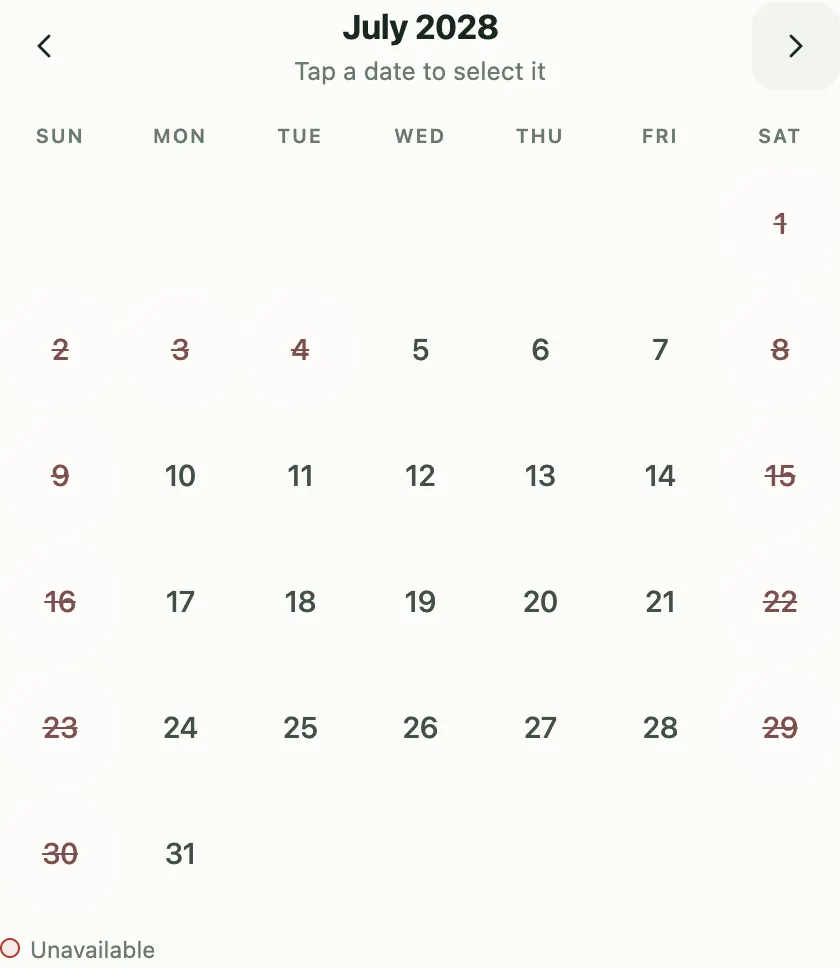
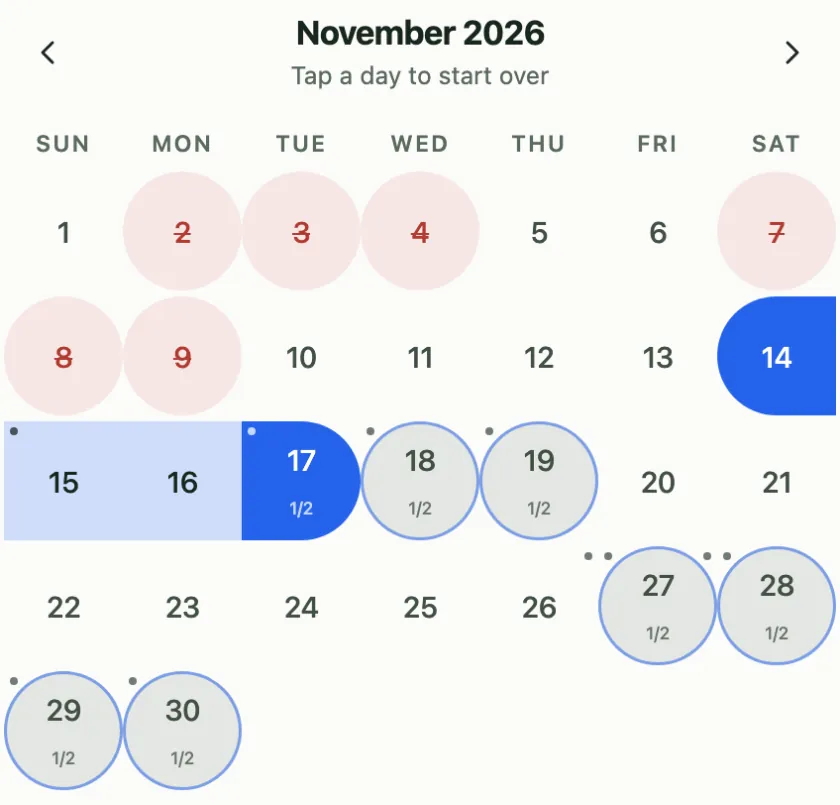
feat(landing): retake the widget screenshots inside the booking window
The four shots now show the live widget (service cards, description,
the "Who's coming?" menu): Boarding for Bella, Sat 14 to Tue 17 November
2026, 3 nights, $150. The old ones used June and July 2028, past the
demo sitter's 12-month window. The hero alt, request card, phone
example, step alts and dashboard mock name the same stay. Step 01 now
says the picture is the client's view of her services, and the step
headings lose their trailing periods. docs/landing-screenshots.md is
the tracked recipe: a worker with no live email, the seed, the stay,
the Playwright capture, and the cwebp settings that keep each file
inside IMG_BUDGETS_KB.

Claude-Session: https://claude.ai/code/session_01RFJRYUaeZq9ZFZrmeU2LGr

diff --git a/server/index.ts b/server/index.ts
@@ -271,8 +271,9 @@ app.get('/setup.html', page('setup.html'));
  * <details>, which opens without script. Its "Sign up" links are rewritten per request (the route
  * below) to carry the visitor's already-cleaned attribution to /signup.
  * The embed snippet in the FAQ is shown as escaped text (&lt;script&gt;…) so the served body
- * genuinely contains no <script tag. Screenshot regeneration recipe (fixed 2028 seed months):
- * docs/superpowers/specs/2026-07-19-landing-marketing-redesign.md.
+ * genuinely contains no <script tag. The screenshots show Boarding for Bella, Sat 14 to Tue 17
+ * November 2026 (3 nights, $150), and the hero alt, request card, phone example, step alts and
+ * dashboard mock all name that stay; docs/landing-screenshots.md is the recipe for retaking them.
  */
 /*
  * Notes on the landing markup below, moved out of the template so none of them is served.
@@ -294,9 +295,9 @@ app.get('/setup.html', page('setup.html'));
  * [div class="cta-row"] The one button on the page that names the trial (owner, 2026-10-08). Every
  *     other button, the nav's included, reads "Sign up": the nav is one row on measured
  *     breakpoints, and the rest sit beside the price that explains them.
- * [div class="visual-panel"] Screenshots are captured from the seeded demo (fixed 2028 months,
- *     never "today"). Regenerate via the recipe in docs/superpowers/specs/2026-07-19-landing-
- *     marketing-redesign.md whenever the widget's look changes. The card's three nights at $150 is
+ * [div class="visual-panel"] Screenshots are captured from the seeded demo, in a month inside the
+ *     demo sitter's booking window. Retake them with docs/landing-screenshots.md whenever the
+ *     widget's look changes or the month leaves the window. The card's three nights at $150 is
  *     the screenshot's own quote, and the WhatsApp example in #pro tells the same stay.
  * [section class="section band"] Who it is for, in her clients' own words: each card is a question
  *     she answers by text today and what answers it instead, with no figure the product cannot
@@ -390,7 +391,7 @@ const LANDING_HTML = `<!doctype html>
               <div class="screen">
                 <img
                   src="/img/landing/widget-hero.webp"
-                  alt="The Pawservation booking widget: a June calendar with a three-night boarding stay selected and a $150 quote"
+                  alt="The Pawservation booking widget: a November calendar with a three-night boarding stay selected, Saturday the 14th to Tuesday the 17th"
                 />
               </div>
               <div class="screen-fade" aria-hidden="true"></div>
@@ -467,25 +468,25 @@ const LANDING_HTML = `<!doctype html>
               <div class="frame">
                 <img
                   src="/img/landing/step-services.webp"
-                  alt="The booking page's service picker: Boarding selected from a row of a sitter's services, including House sitting, Daycare, Walk, Check-in and Morning walk"
+                  alt="A sitter's services as her clients see them on her booking page: Boarding selected, beside House sitting, Daycare, Walk, Check-in and Morning walk"
                 />
               </div>
               <div class="step-body">
                 <span class="step-no">01</span>
-                <h3>You set your services.</h3>
-                <p>Pick from walks, drop-in visits, boarding, house sitting and daycare, and type your prices.</p>
+                <h3>Your services, your prices</h3>
+                <p>Pick from walks, drop-in visits, boarding, house sitting and daycare, and type your prices. Your clients choose from them on your booking page.</p>
               </div>
             </li>
             <li class="step-card">
               <div class="frame frame-tall">
                 <img
                   src="/img/landing/step-calendar.webp"
-                  alt="Month grid where full days are struck through and the weekends of a weekday-only service are struck through as unavailable"
+                  alt="The November month grid with the 14th to the 17th selected: days off struck through, nearly full days ringed, and the client's own bookings dotted"
                 />
               </div>
               <div class="step-body">
                 <span class="step-no">02</span>
-                <h3>Clients pick their dates.</h3>
+                <h3>Clients pick their dates</h3>
                 <p>Your calendar shows only the days you can take, and the price shows before they ask.</p>
               </div>
             </li>
@@ -493,12 +494,12 @@ const LANDING_HTML = `<!doctype html>
               <div class="frame">
                 <img
                   src="/img/landing/step-request.webp"
-                  alt="Booking summary showing the selected dates, an estimated cost of $150, and a Request Booking button"
+                  alt="The Request Booking button beside the quote for the stay: 3 nights, $150.00"
                 />
               </div>
               <div class="step-body">
                 <span class="step-no">03</span>
-                <h3>You confirm with one tap.</h3>
+                <h3>You confirm with one tap</h3>
                 <p>Each request reaches you with the dates, the pets and the price. Nothing is booked until you say yes.</p>
               </div>
             </li>
@@ -605,12 +606,12 @@ const LANDING_HTML = `<!doctype html>
             <div class="mockdash-top">
               <span class="mockdash-title">Bookings</span>
               <span class="mockdash-count">2 pending</span>
-              <span class="mockdash-when">August 2028</span>
+              <span class="mockdash-when">November 2026</span>
             </div>
             <div class="mock-row">
               <div class="mock-info">
                 <div class="mock-who">Jess D. &middot; Boarding</div>
-                <div class="mock-meta">Aug 20 &ndash; Aug 23 &middot; 1 pet &middot; $150</div>
+                <div class="mock-meta">Nov 14 &ndash; Nov 17 &middot; 1 pet &middot; $150</div>
               </div>
               <span class="state state-pend">Pending</span>
               <div class="mock-actions">
@@ -621,7 +622,7 @@ const LANDING_HTML = `<!doctype html>
             <div class="mock-row">
               <div class="mock-info">
                 <div class="mock-who">Priya S. &middot; Morning walk</div>
-                <div class="mock-meta">Aug 10, 9:00 AM &middot; 1 pet &middot; $20</div>
+                <div class="mock-meta">Nov 12, 9:00 AM &middot; 1 pet &middot; $20</div>
               </div>
               <span class="state state-pend">Pending</span>
               <div class="mock-actions">
@@ -632,7 +633,7 @@ const LANDING_HTML = `<!doctype html>
             <div class="mock-row">
               <div class="mock-info">
                 <div class="mock-who">Marco T. &middot; Daycare</div>
-                <div class="mock-meta">Aug 8 &middot; 2 pets &middot; $70 &middot; paid in full</div>
+                <div class="mock-meta">Nov 6 &middot; 2 pets &middot; $70 &middot; paid in full</div>
               </div>
               <span class="state state-ok">Confirmed</span>
               <div class="mock-actions">
@@ -937,7 +938,7 @@ const HOW_IT_WORKS_HTML = `<!doctype html>
               <div class="frame">
                 <img
                   src="/img/landing/step-services.webp"
-                  alt="The widget's service picker: Boarding selected from a row of services including House sitting, Daycare, Walk, Check-in, and Morning walk"
+                  alt="The widget's service cards: Boarding selected, beside House sitting, Daycare, Walk, Check-in and Morning walk"
                 />
               </div>
               <div class="step-body">
@@ -950,7 +951,7 @@ const HOW_IT_WORKS_HTML = `<!doctype html>
               <div class="frame frame-tall">
                 <img
                   src="/img/landing/step-calendar.webp"
-                  alt="Month grid where full days are struck through and the weekends of a weekday-only service are struck through as unavailable"
+                  alt="The November month grid with the 14th to the 17th selected: days off struck through, nearly full days ringed, and the client's own bookings dotted"
                 />
               </div>
               <div class="step-body">
@@ -963,7 +964,7 @@ const HOW_IT_WORKS_HTML = `<!doctype html>
               <div class="frame">
                 <img
                   src="/img/landing/step-request.webp"
-                  alt="Booking summary showing the selected dates, an estimated cost of $150, and a Request Booking button"
+                  alt="The Request Booking button beside the quote for the stay: 3 nights, $150.00"
                 />
               </div>
               <div class="step-body">

diff --git a/server/__tests__/landing.test.ts b/server/__tests__/landing.test.ts
@@ -7,9 +7,8 @@ import { createTestEnv } from './helpers';
 
 const IMG_DIR = join(import.meta.dirname, '..', '..', 'public', 'img', 'landing');
 
-// Per-file byte budgets from the landing-marketing-redesign spec — the weight budget is a
-// failing test, not a convention. Regeneration recipe lives in
-// docs/superpowers/specs/2026-07-19-landing-marketing-redesign.md.
+// Per-file byte budgets: the weight budget is a failing test, not a convention. How to retake the
+// four shots, inside the booking window and within these budgets, is docs/landing-screenshots.md.
 const IMG_BUDGETS_KB: Record<string, number> = {
   'widget-hero.webp': 90,
   'step-services.webp': 40,
@@ -73,10 +72,12 @@ describe('GET / — landing page', () => {
 
   it('tells one boarding story: the phone example, the hero card and its screenshot agree', async () => {
     const body = await landingBody();
-    // The hero screenshot is a three-night stay quoted at $150, and the coded card over it says
-    // so. The WhatsApp example is the same stay told by message, so a reader never meets two
-    // boarding rates on one page.
-    expect(body).toContain('a three-night boarding stay selected and a $150 quote');
+    // The hero screenshot is a three-night stay, Sat 14 to Tue 17, quoted at $150, and the coded
+    // card over it says so. The WhatsApp example is the same stay told by message, so a reader
+    // never meets two boarding rates on one page.
+    expect(body).toContain(
+      'a three-night boarding stay selected, Saturday the 14th to Tuesday the 17th',
+    );
     expect(body).toContain(
       '<span class="req-what">Boarding &middot; 3 nights &middot; $150</span>',
     );
@@ -456,6 +457,33 @@ describe('GET / — landing page', () => {
       expect(size, `${file} over its ${kb}KB budget`).toBeLessThanOrEqual(kb * 1024);
     }
     expect(total, 'total image weight').toBeLessThanOrEqual(TOTAL_BUDGET_KB * 1024);
+  });
+
+  it('the recipe the screenshots were taken from is tracked', () => {
+    expect(
+      statSync(join(IMG_DIR, '..', '..', '..', 'docs', 'landing-screenshots.md')).isFile(),
+    ).toBe(true);
+  });
+
+  it('the copy around the screenshots names the stay and month they show', async () => {
+    // The shots show Boarding for Bella, Sat 14 to Tue 17 November 2026: 3 nights, $150. The
+    // hero alt, the hero's request card, the phone example, the step alts and the dashboard mock
+    // all say the same stay, so no line on the page contradicts a picture beside it.
+    const body = await landingBody();
+    expect(body).not.toMatch(/20(28|29)/);
+    expect(body).toContain('a November calendar with a three-night boarding stay selected');
+    expect(body).toContain(
+      '<span class="req-what">Boarding &middot; 3 nights &middot; $150</span>',
+    );
+    expect(body).toContain('Sat 14th to Tue 17th');
+    expect(body).toContain('<span class="mockdash-when">November 2026</span>');
+    expect(body).toContain('Nov 14 &ndash; Nov 17 &middot; 1 pet &middot; $150');
+    expect(body).toMatch(/alt="[^"]*3 nights, \$150\.00[^"]*"/);
+    // Step 01 shows the client's service picker, so its words describe that picture.
+    expect(body).toContain('Your clients choose from them on your booking page.');
+    // The step headings carry no trailing period, like every other h3 on the page.
+    for (const h of [...body.matchAll(/<h3>([^<]*)<\/h3>/g)].map((m) => m[1]))
+      expect(h, h).not.toMatch(/\.$/);
   });
 
   it('footer carries no open-source / self-host block, only the created-by line', async () => {

diff --git a/docs/landing-screenshots.md b/docs/landing-screenshots.md
@@ -1,0 +1,169 @@
+# Retaking the landing screenshots
+
+The landing page (`/`) shows four screenshots of the real booking widget, and `/how-it-works`
+reuses them. They live in `public/img/landing/`:
+
+| File                 | What it shows                                                           | Size (px) | Budget |
+| -------------------- | ----------------------------------------------------------------------- | --------- | ------ |
+| `widget-hero.webp`   | The whole widget, top down to the calendar legend, with the stay chosen | 932 wide  | 90KB   |
+| `step-services.webp` | The service cards (Boarding selected)                                   | 840 wide  | 40KB   |
+| `step-calendar.webp` | The month grid, from its header to its last row, with the stay chosen   | 840 wide  | 40KB   |
+| `step-request.webp`  | The Request Booking button and the quote beside it                      | 840 wide  | 40KB   |
+
+The budgets, and a 210KB total, are `IMG_BUDGETS_KB` and `TOTAL_BUDGET_KB` in
+`server/__tests__/landing.test.ts`, and they fail the build. Every shot is taken at 2x.
+
+## The stay the shots show, and why it has to be inside the booking window
+
+All four show one stay: **Boarding for Bella (signed in as Jess), Saturday 14 to Tuesday 17
+November 2026, 3 nights, $150**. The page's copy names the same stay in five places, and
+`landing.test.ts` ("the copy around the screenshots names the stay and month they show") pins them:
+the hero image's alt, the request card over it, the WhatsApp phone example ("Sat 14th to Tue
+17th", "$150 for 3 nights"), the step images' alts, and the dashboard mock (`mockdash-when`, and
+its first row "Nov 14 – Nov 17 · 1 pet · $150").
+
+The month must be inside the demo sitter's booking window. Sunny Paws has
+`MaxAdvanceMonths = 12` (`sql/seed-demo.sql`), so the widget refuses any day more than 12 months
+after the day you shoot: an older recipe used June and July 2028, which the widget no longer lets
+anyone pick. The demo seed also dates every booking relative to the day it runs (+0 to +62 days),
+so a month one or two ahead of today shows real days off, nearly full days and Jess's own
+bookings. Pick **the next month, inside the window, whose 14th is a Saturday**, so the stay is
+still Sat 14 to Tue 17. From 2026-10-08 that was November 2026; the next is August 2027.
+
+When the month changes, change the five places above in the same commit (and the dates in this
+file), then run `npx vitest run server/__tests__/landing.test.ts`.
+
+## 1. Start the worker without live email
+
+From the repo root, in its own terminal. Port 8790, so a worker already on 8787 is left alone:
+
+```bash
+npm install
+npm run seed:local     # resets this checkout's local D1 to the demo; re-run on the day you shoot
+npm run build
+npx wrangler dev --port 8790 --ip 127.0.0.1 \
+  --var ENVIRONMENT:development \
+  --var RESEND_API_KEY: --var RESEND_FROM_NOREPLY: --var RESEND_FROM_BOOKING: \
+  --var TOKEN_SECRET:$(openssl rand -hex 32)
+```
+
+Blank Resend vars mean no email can leave the machine, and `ENVIRONMENT:development` shows the
+six-digit sign-in code on screen. Stop the worker (Ctrl-C) when you are done.
+
+## 2. Take the shots
+
+Any Playwright install works; it is not a dependency of this repo. In a scratch directory outside
+the repo:
+
+```bash
+mkdir -p /tmp/landing-shots && cd /tmp/landing-shots
+npm init -y >/dev/null && npm i --no-save playwright@1.63.0 && npx playwright install chromium
+```
+
+Save this as `capture.mjs` there. The second argument is how many months ahead of today the target
+month is (1 for November 2026 when shot in October 2026):
+
+```js
+import { chromium } from 'playwright';
+
+const [out = '.', monthsAhead = '1'] = process.argv.slice(2);
+const b = await chromium.launch();
+// 466 CSS px wide at 2x, light scheme: the widget as a phone-width iframe shows it.
+const p = await b.newPage({
+  viewport: { width: 466, height: 1000 },
+  deviceScaleFactor: 2,
+  colorScheme: 'light',
+});
+
+// Sign in as Jess; the dev worker prints the code on the page.
+await p.goto('http://127.0.0.1:8790/embed/sunny-paws');
+await p.getByLabel('Your email').fill('jess@example.com');
+await p.getByRole('button', { name: 'Email me a code' }).click();
+const codeLine = p.getByText(/Your code: \d{6}/);
+await codeLine.waitFor();
+const code = (await codeLine.innerText()).match(/\d{6}/)[0];
+await p.locator('input[placeholder="······"]').fill(code);
+await p.getByRole('button', { name: 'Verify' }).click();
+await p.waitForTimeout(1500);
+
+// Boarding, Bella (the default pet), the target month, then the 14th and the 17th.
+await p.getByRole('button', { name: /^Boarding/ }).click();
+for (let i = 0; i < Number(monthsAhead); i++) {
+  await p.getByRole('button', { name: /next month/i }).click();
+  await p.waitForTimeout(400);
+}
+await p.locator('button', { hasText: /^14/ }).first().click();
+await p.waitForTimeout(400);
+await p.locator('button', { hasText: /^17/ }).first().click();
+await p.waitForTimeout(1500);
+
+// Answer the two required questions so Request Booking is enabled.
+await p.getByLabel(/Are vaccinations up to date/).selectOption({ label: 'Yes' });
+await p.getByLabel(/Feeding routine/).fill('Two cups at 7am and 6pm');
+await p.waitForTimeout(500);
+await p.mouse.move(0, 0);
+
+// Page coordinates (not viewport ones: filling a field scrolls the page).
+const box = (loc) =>
+  loc.first().evaluate((el) => {
+    const r = el.getBoundingClientRect();
+    return { x: r.x + scrollX, y: r.y + scrollY, width: r.width, height: r.height };
+  });
+const first = await box(p.getByRole('button', { name: /^Boarding/ }));
+const last = await box(p.getByRole('button', { name: /^Morning walk/ }));
+const prev = await box(p.getByRole('button', { name: /previous month/i }));
+const legend = await box(p.getByText('Unavailable', { exact: true }));
+const day30 = await box(p.locator('button', { hasText: /^30/ }));
+const req = await box(p.getByRole('button', { name: 'Request Booking' }));
+
+// The step crops span the content column, edge of the first card to edge of the last.
+const x = first.x - 2;
+const w = last.x + last.width + 2 - x;
+const shot = (name, y0, y1, xx = x, ww = w) =>
+  p.screenshot({
+    path: `${out}/${name}.png`,
+    fullPage: true,
+    clip: { x: xx, y: y0, width: ww, height: y1 - y0 },
+  });
+await shot('widget-hero', 0, legend.y + legend.height + 12, 0, 466);
+await shot('step-services', first.y - 2, last.y + last.height + 2);
+await shot('step-calendar', prev.y - 4, day30.y + day30.height + 8);
+await shot('step-request', req.y - 14, req.y + req.height + 14);
+await b.close();
+```
+
+```bash
+node capture.mjs . 1
+```
+
+Open the four PNGs and check them before encoding: the stay is 14 to 17, the quote reads
+"3 nights · $150.00", and no shot is cut through a line of text. If the page has a day `30` twice
+or a label changes, adjust the locator, not the crop numbers.
+
+## 3. Encode to WebP within budget
+
+`cwebp` (Homebrew `webp`) at quality 80, effort 6. The hero stays at its native 932px; the step
+shots are scaled to 840px so the three match:
+
+```bash
+D=<repo>/public/img/landing
+cwebp -quiet -q 80 -m 6 widget-hero.png -o "$D/widget-hero.webp"
+for f in step-services step-calendar step-request; do
+  cwebp -quiet -q 80 -m 6 -resize 840 0 "$f.png" -o "$D/$f.webp"
+done
+ls -l "$D"
+```
+
+The November 2026 set came out at 53.4KB, 9.8KB, 22.2KB and 5.1KB (90.6KB together). If a file
+is over its budget, lower `-q` in steps of 5 for that file only, and look at it again: text edges
+are what goes first.
+
+## 4. Check
+
+```bash
+npx vitest run server/__tests__/landing.test.ts server/__tests__/how-it-works.test.ts
+```
+
+Then look at `/` and `/how-it-works` in both colour schemes at 375px and 1280px: the hero frame
+shows only the top of `widget-hero.webp` (the services and the month header), and the step frames
+crop to 224px tall, so the top of each step shot is what a visitor sees.
